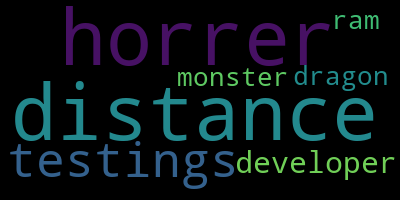
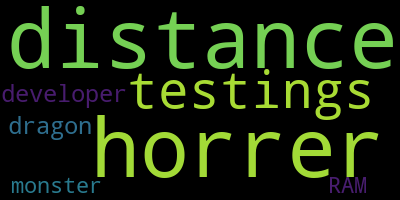
set stopwords

diff --git a/wordCloud.py b/wordCloud.py
@@ -4,6 +4,7 @@ from wordcloud import WordCloud, STOPWORDS
 import matplotlib
 matplotlib.use('TkAgg')
 import matplotlib.pyplot as plt
+import matplotlib.image as img
 
 # %matplotlib inline
 matplotlib.rcParams['figure.figsize'] = (16.0, 9.0)
@@ -31,12 +32,12 @@ dataset = open("batman.txt", "r").read()
 def create_word_cloud(string):
    maskArray = np.array(Image.open("test.jpg"))
    # cloud = WordCloud(background_color = "black", min_font_size=5, mask = maskArray, stopwords = set(STOPWORDS))
-   cloud = WordCloud(font_path=None, width=400, height=200, margin=2, ranks_only=None, prefer_horizontal=0.9, mask=None, scale=1, color_func=None, max_words=200, min_font_size=4, stopwords=None, random_state=None, background_color='black', max_font_size=None, font_step=1, mode='RGB', relative_scaling='auto', regexp=None, collocations=True, colormap=None, normalize_plurals=True, contour_width=0, contour_color='black', repeat=False, include_numbers=False, min_word_length=0)
+   cloud = WordCloud(font_path=None, width=400, height=200, margin=2, ranks_only=None, prefer_horizontal=0.9, mask=None, scale=1, color_func=None, max_words=200, min_font_size=4, stopwords=set(STOPWORDS), random_state=None, background_color='black', max_font_size=None, font_step=1, mode='RGB', relative_scaling='auto', regexp=None, collocations=True, colormap=None, normalize_plurals=True, contour_width=0, contour_color='black', repeat=False, include_numbers=False, min_word_length=0)
    cloud.generate(string)
    cloud.to_file("wordCloud.png")
-   plt.plot()
-   plt.imshow(cloud)
 
 
-dataset = dataset.lower()
+# dataset = dataset.lower()
 create_word_cloud(dataset)
+# im = img.imread("wordCloud.png")
+# plt.imshow(im)
